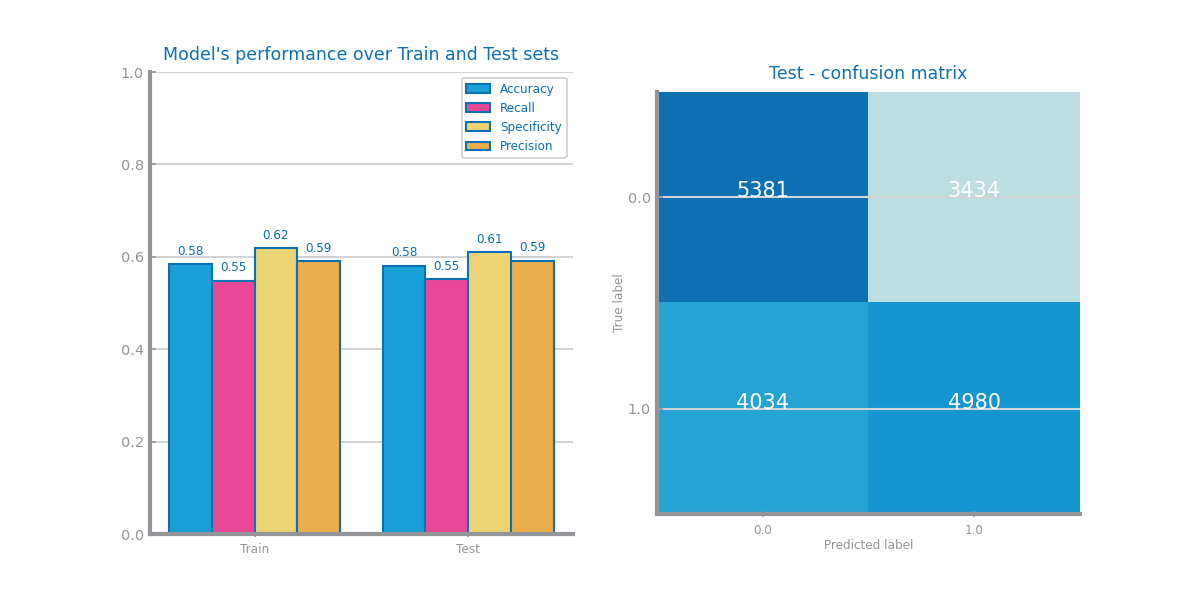
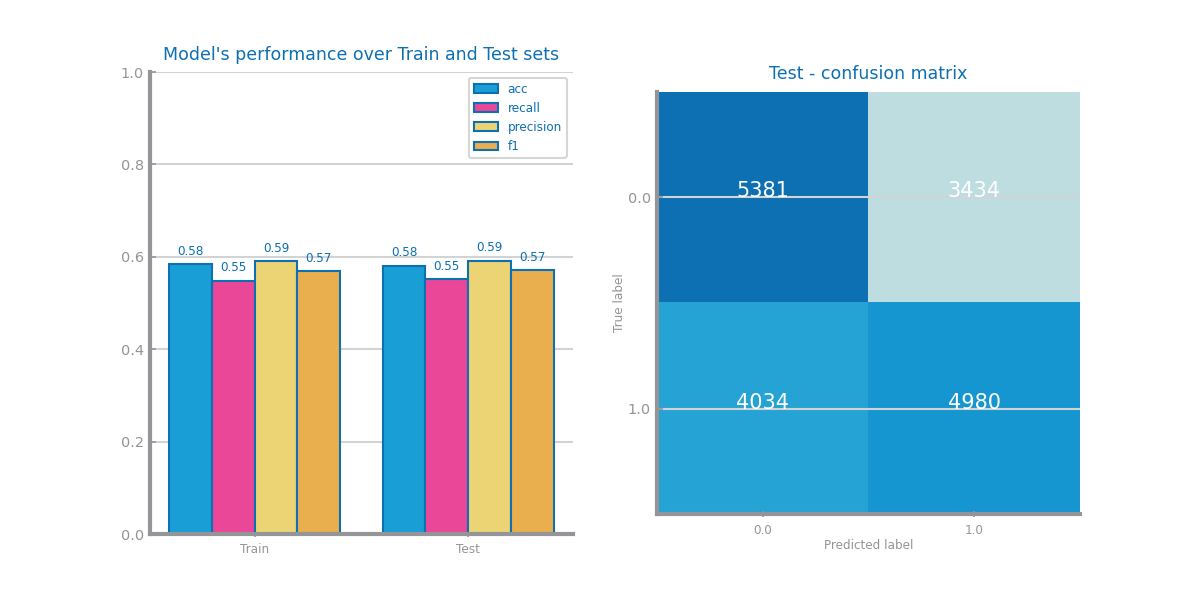
nb, knn and dtrees models done

Changed region(s): [[0.37, 0.12, 0.4625, 0.27], [0.2158, 0.39, 0.3083, 0.48], [0.37, 0.39, 0.4625, 0.45]]

diff --git a/code/week4_decision_trees.py b/code/week4_decision_trees.py
@@ -1,14 +1,15 @@
 from numpy import ndarray, argsort, arange
 from pandas import unique
-from sklearn.tree import DecisionTreeClassifier
+from sklearn.tree import DecisionTreeClassifier, plot_tree
 from matplotlib.pyplot import figure, subplots
 from sklearn.metrics import accuracy_score
-from ds_charts import horizontal_bar_chart, plot_evaluation_results, multiple_line_chart, plot_overfitting_study
+from ds_charts import horizontal_bar_chart, plot_evaluation_results, multiple_line_chart
 from globals import class_climate_prepared_test_df, class_climate_prepared_train_df, class_health_prepared_test_df, class_health_prepared_train_df
-from globals import CLASSIFICATION_CLIMATE_TARGET, CLASSIFICATION_HEALTH_TARGET
-from sklearn import tree
+from globals import CLASSIFICATION_CLIMATE_TARGET, CLASSIFICATION_HEALTH_TARGET, CLIMATE_IMAGE_FOLDER, HEALTH_IMAGE_FOLDER
+from globals import save_image, WEEK_4_FOLDER
+from week2_study import plot_evaluation_results
 
-def decision_trees_model(train, test, target_class):
+def decision_trees_model(train, test, target_class, image_folder, filename, filename2, filename3, filename4, filename5, filename6):
     trnY: ndarray = train.pop(target_class).values
     trnX: ndarray = train.values
     labels = unique(trnY)
@@ -44,16 +45,22 @@ def decision_trees_model(train, test, target_class):
             values[d] = yvalues
         multiple_line_chart(min_impurity_decrease, values, ax=axs[0, k], title=f'Decision Trees with {f} criteria',
                            xlabel='min_impurity_decrease', ylabel='accuracy', percentage=True)
-        #save_image here
-    
+        if(k == 0):
+            save_image(image_folder, WEEK_4_FOLDER, filename, show_flag=False)
+        else:
+            save_image(image_folder, WEEK_4_FOLDER, filename2, show_flag=False)
+
     labels = [str(value) for value in labels]
-    tree.plot_tree(best_model, feature_name=train.columns, class_names=labels)
-    #save_image here
+    plot_tree(best_model, feature_names= train.columns, class_names=labels)
+    save_image(image_folder, WEEK_4_FOLDER, filename3, show_flag=False)
 
     prd_trn = best_model.predict(trnX)
     prd_tst = best_model.predict(tstX)
-    plot_evaluation_results(labels, trnY, prd_trn, tstY, prd_tst)
-    #save_image here
+    if len(labels) > 2:
+        plot_evaluation_results(labels, trnY, prd_trn, tstY, prd_tst, average_param= 'micro')
+    else:
+        plot_evaluation_results(labels, trnY, prd_trn, tstY, prd_tst)
+    save_image(image_folder, WEEK_4_FOLDER, filename4, show_flag=False)
 
     variables = train.columns
     importances = best_model.feature_importances_
@@ -66,7 +73,7 @@ def decision_trees_model(train, test, target_class):
 
     figure()
     horizontal_bar_chart(elems, imp_values, error=None, title='Decision Tree Features importance', xlabel='importance', ylabel='variables')
-    #save_image here
+    save_image(image_folder, WEEK_4_FOLDER, filename5, show_flag=False)
 
     imp = 0.0001
     f = 'entropy'
@@ -82,9 +89,15 @@ def decision_trees_model(train, test, target_class):
         y_tst_values.append(eval_metric(tstY, prd_tst_Y))
         y_trn_values.append(eval_metric(trnY, prd_trn_Y))
     plot_overfitting_study(max_depths, y_trn_values, y_tst_values, name=f'DT=imp{imp}_{f}', xlabel='max_depth', ylabel=str(eval_metric))
-    #save_image here
+    save_image(image_folder, WEEK_4_FOLDER, filename6, show_flag=False)
     
+def plot_overfitting_study(xvalues, prd_trn, prd_tst, name, xlabel, ylabel):
+        evals = {'Train': prd_trn, 'Test': prd_tst}
+        figure()
+        multiple_line_chart(xvalues, evals, ax = None, title=f'Overfitting {name}', xlabel=xlabel, ylabel=ylabel, percentage=True)
 
-decision_trees_model(class_climate_prepared_train_df, class_climate_prepared_test_df, CLASSIFICATION_CLIMATE_TARGET)
+decision_trees_model(class_climate_prepared_train_df, class_climate_prepared_test_df, CLASSIFICATION_CLIMATE_TARGET, CLIMATE_IMAGE_FOLDER, 
+"dtrees_entropy_multiline", "dtrees_gini_multiline", "dtrees_tree", "dtrees_plot_eval", "dtrees_horizontal_bar", "dtrees_plot_overfit")
 
-decision_trees_model(class_health_prepared_train_df, class_health_prepared_test_df, CLASSIFICATION_HEALTH_TARGET)
+decision_trees_model(class_health_prepared_train_df, class_health_prepared_test_df, CLASSIFICATION_HEALTH_TARGET, HEALTH_IMAGE_FOLDER,
+"dtrees_entropy_multiline", "dtrees_gini_multiline", "dtrees_tree", "dtrees_plot_eval", "dtrees_horizontal_bar", "dtrees_plot_overfit")

diff --git a/code/week2_study.py b/code/week2_study.py
@@ -4,12 +4,16 @@ import itertools
 import matplotlib.pyplot as plt
 from pandas import unique
 from matplotlib.pyplot import figure
-from ds_charts import multiple_line_chart
+from ds_charts import HEIGHT, multiple_bar_chart, multiple_line_chart
 from sklearn.model_selection import train_test_split
 from sklearn.metrics import confusion_matrix, accuracy_score
 from sklearn.naive_bayes import GaussianNB, MultinomialNB
 from sklearn.neighbors import KNeighborsClassifier
+from sklearn.metrics import accuracy_score, recall_score, precision_score, f1_score, confusion_matrix
+from ds_charts import plot_confusion_matrix
+from matplotlib.pyplot import Axes, gca, figure, savefig, subplots, imshow, imread, axis
 from pandas.plotting import register_matplotlib_converters
+from numpy import ndarray
 
 register_matplotlib_converters()
 
@@ -62,27 +66,50 @@ def knn_study(df, target_class, image_folder, filename):
     multiple_line_chart(nvalues, values, title='KNN variants', xlabel='n', ylabel=str(accuracy_score), percentage=True)
     save_image(image_folder, WEEK_2_FOLDER, filename, show_flag=False)
 
-def plot_confusion_matrix(cnf_matrix: np.ndarray, classes_names: np.ndarray, ax: plt.Axes = None, normalize: bool = False):
-    CMAP = plt.cm.Blues
-    if ax is None:
-        ax = plt.gca()
-    if normalize:
-        total = cnf_matrix.sum(axis=1)[:, np.newaxis]
-        cm = cnf_matrix.astype('float') / total
-        title = "Normalized confusion matrix"
-    else:
-        cm = cnf_matrix
-        title = 'Confusion matrix'
-    np.set_printoptions(precision=2)
-    tick_marks = np.arange(0, len(classes_names), 1)
-    ax.set_title(title)
-    ax.set_ylabel('True label')
-    ax.set_xlabel('Predicted label')
-    ax.set_xticks(tick_marks)
-    ax.set_yticks(tick_marks)
-    ax.set_xticklabels(classes_names)
-    ax.set_yticklabels(classes_names)
-    ax.imshow(cm, interpolation='nearest', cmap=CMAP)
-    fmt = '.2f' if normalize else 'd'
-    for i, j in itertools.product(range(cm.shape[0]), range(cm.shape[1])):
-        ax.text(j, i, format(cm[i, j], fmt), color='y', horizontalalignment="center")
+#def plot_confusion_matrix(cnf_matrix: np.ndarray, classes_names: np.ndarray, ax: plt.Axes = None, normalize: bool = False):
+#    CMAP = plt.cm.Blues
+#    if ax is None:
+#        ax = plt.gca()
+#    if normalize:
+#        total = cnf_matrix.sum(axis=1)[:, np.newaxis]
+#        cm = cnf_matrix.astype('float') / total
+#        title = "Normalized confusion matrix"
+#    else:
+#        cm = cnf_matrix
+#        title = 'Confusion matrix'
+#    np.set_printoptions(precision=2)
+#    tick_marks = np.arange(0, len(classes_names), 1)
+#    ax.set_title(title)
+#    ax.set_ylabel('True label')
+#    ax.set_xlabel('Predicted label')
+#    ax.set_xticks(tick_marks)
+#    ax.set_yticks(tick_marks)
+#    ax.set_xticklabels(classes_names)
+#    ax.set_yticklabels(classes_names)
+#    ax.imshow(cm, interpolation='nearest', cmap=CMAP)
+#    fmt = '.2f' if normalize else 'd'
+#    for i, j in itertools.product(range(cm.shape[0]), range(cm.shape[1])):
+#        ax.text(j, i, format(cm[i, j], fmt), color='y', horizontalalignment="center")
+
+def plot_evaluation_results(labels: ndarray, trn_y, prd_trn, tst_y, prd_tst, pos_value: int = 1, average_param: str = 'binary'):
+
+    def compute_eval(real, prediction):
+        evaluation = {
+            'acc': accuracy_score(real, prediction),
+            'recall': recall_score(real, prediction, pos_label=pos_value, average=average_param),
+            'precision': precision_score(real, prediction, pos_label=pos_value, average=average_param),
+            'f1': f1_score(real, prediction, pos_label=pos_value, average=average_param)
+        }
+        return evaluation
+
+    eval_trn = compute_eval(trn_y, prd_trn)
+    eval_tst = compute_eval(tst_y, prd_tst)
+    evaluation = {}
+    for key in eval_trn.keys():
+        evaluation[key] = [eval_trn[key], eval_tst[key]]
+
+    _, axs = subplots(1, 2, figsize=(2 * HEIGHT, HEIGHT))
+    multiple_bar_chart(['Train', 'Test'], evaluation, ax=axs[0], title="Model's performance over Train and Test sets", percentage=True)
+
+    cnf_mtx_tst = confusion_matrix(tst_y, prd_tst, labels= labels)
+    plot_confusion_matrix(cnf_mtx_tst, labels, ax=axs[1], title='Test')

diff --git a/code/week4_nb_model.py b/code/week4_nb_model.py
@@ -1,10 +1,12 @@
 from numpy import ndarray
 from pandas import unique
 from sklearn.naive_bayes import GaussianNB, MultinomialNB
-from ds_charts import plot_evaluation_results
+from ds_charts import HEIGHT, multiple_bar_chart, plot_confusion_matrix
 from globals import class_climate_prepared_test_df, class_climate_prepared_train_df, class_health_prepared_test_df, class_health_prepared_train_df
 from globals import CLASSIFICATION_CLIMATE_TARGET, CLASSIFICATION_HEALTH_TARGET
 from globals import WEEK_4_FOLDER, save_image, CLIMATE_IMAGE_FOLDER, HEALTH_IMAGE_FOLDER
+from sklearn.metrics import accuracy_score, recall_score, precision_score, f1_score, confusion_matrix
+from matplotlib.pyplot import Axes, gca, figure, savefig, subplots, imshow, imread, axis
 
 def nb_model(train, test, target_class, image_folder, filename):
     trnY: ndarray = train.pop(target_class).values
@@ -24,10 +26,37 @@ def nb_model(train, test, target_class, image_folder, filename):
     clf.fit(trnX, trnY)
     prd_trn = clf.predict(trnX)
     prd_tst = clf.predict(tstX)
-    plot_evaluation_results(labels, trnY, prd_trn, tstY, prd_tst)
+    if len(labels) > 2:
+        plot_evaluation_results(labels, trnY, prd_trn, tstY, prd_tst, average_param= 'micro')
+    else:
+        plot_evaluation_results(labels, trnY, prd_trn, tstY, prd_tst)
+    
     save_image(image_folder, WEEK_4_FOLDER, filename, show_flag=False)
 
+def plot_evaluation_results(labels: ndarray, trn_y, prd_trn, tst_y, prd_tst, pos_value: int = 1, average_param: str = 'binary'):
 
-#nb_model(class_climate_prepared_train_df, class_climate_prepared_test_df, CLASSIFICATION_CLIMATE_TARGET, CLIMATE_IMAGE_FOLDER, "nb_model")
+    def compute_eval(real, prediction):
+        evaluation = {
+            'acc': accuracy_score(real, prediction),
+            'recall': recall_score(real, prediction, pos_label=pos_value, average=average_param),
+            'precision': precision_score(real, prediction, pos_label=pos_value, average=average_param),
+            'f1': f1_score(real, prediction, pos_label=pos_value, average=average_param)
+        }
+        return evaluation
+
+    eval_trn = compute_eval(trn_y, prd_trn)
+    eval_tst = compute_eval(tst_y, prd_tst)
+    evaluation = {}
+    for key in eval_trn.keys():
+        evaluation[key] = [eval_trn[key], eval_tst[key]]
+
+    _, axs = subplots(1, 2, figsize=(2 * HEIGHT, HEIGHT))
+    multiple_bar_chart(['Train', 'Test'], evaluation, ax=axs[0], title="Model's performance over Train and Test sets", percentage=True)
+
+    cnf_mtx_tst = confusion_matrix(tst_y, prd_tst, labels= labels)
+    plot_confusion_matrix(cnf_mtx_tst, labels, ax=axs[1], title='Test')
+
+
+nb_model(class_climate_prepared_train_df, class_climate_prepared_test_df, CLASSIFICATION_CLIMATE_TARGET, CLIMATE_IMAGE_FOLDER, "nb_model")
 
 nb_model(class_health_prepared_train_df, class_health_prepared_test_df, CLASSIFICATION_HEALTH_TARGET, HEALTH_IMAGE_FOLDER, "nb_model")

diff --git a/code/week4_knn_model.py b/code/week4_knn_model.py
@@ -2,12 +2,15 @@ from numpy import ndarray
 from pandas import unique
 from sklearn.neighbors import KNeighborsClassifier
 from sklearn.metrics import accuracy_score
-from ds_charts import multiple_line_chart, plot_evaluation_results
+from ds_charts import multiple_line_chart
 from matplotlib.pyplot import figure
 from globals import class_climate_prepared_test_df, class_climate_prepared_train_df, class_health_prepared_test_df, class_health_prepared_train_df
 from globals import CLASSIFICATION_CLIMATE_TARGET, CLASSIFICATION_HEALTH_TARGET
+from globals import WEEK_4_FOLDER, save_image, CLIMATE_IMAGE_FOLDER, HEALTH_IMAGE_FOLDER
+from week2_study import plot_evaluation_results
 
-def knn_model(train, test, target_class):
+
+def knn_model(train, test, target_class, image_folder, filename, filename2, filename3):
     trnY: ndarray = train.pop(target_class).values
     trnX: ndarray = train.values
     labels = unique(trnY)
@@ -35,14 +38,19 @@ def knn_model(train, test, target_class):
         values[d] = y_tst_values
     figure()
     multiple_line_chart(nvalues, values, title='KNN variants', xlabel='n', ylabel=str(accuracy_score), percentage=True)
-    #save_image here
+    save_image(image_folder, WEEK_4_FOLDER, filename, show_flag=False)
+
 
     clf = knn = KNeighborsClassifier(n_neighbors=best[0], metric=best[1])
     clf.fit(trnX, trnY)
     prd_trn = clf.predict(trnX)
     prd_tst = clf.predict(tstX)
-    plot_evaluation_results(labels, trnY, prd_trn, tstY, prd_tst)
-    #save_image here
+    if len(labels) > 2:
+        plot_evaluation_results(labels, trnY, prd_trn, tstY, prd_tst, average_param= 'micro')
+    else:
+        plot_evaluation_results(labels, trnY, prd_trn, tstY, prd_tst)
+    save_image(image_folder, WEEK_4_FOLDER, filename2, show_flag=False)
+
 
     def plot_overfitting_study(xvalues, prd_trn, prd_tst, name, xlabel, ylabel):
         evals = {'Train': prd_trn, 'Test': prd_tst}
@@ -61,8 +69,11 @@ def knn_model(train, test, target_class):
         y_tst_values.append(eval_metric(tstY, prd_tst_Y))
         y_trn_values.append(eval_metric(trnY, prd_trn_Y))
     plot_overfitting_study(nvalues, y_trn_values, y_tst_values, name=f'KNN_K={n}_{d}', xlabel='K', ylabel=str(eval_metric))
-    #save_image here
+    save_image(image_folder, WEEK_4_FOLDER, filename3, show_flag=False)
 
-knn_model(class_climate_prepared_train_df, class_climate_prepared_test_df, CLASSIFICATION_CLIMATE_TARGET)
 
-knn_model(class_health_prepared_train_df, class_health_prepared_test_df, CLASSIFICATION_HEALTH_TARGET)
+knn_model(class_climate_prepared_train_df, class_climate_prepared_test_df, CLASSIFICATION_CLIMATE_TARGET, CLIMATE_IMAGE_FOLDER, "knn_model_multiline",
+ "knn_model_plot_eval", "knn_model_plot_overfit")
+
+knn_model(class_health_prepared_train_df, class_health_prepared_test_df, CLASSIFICATION_HEALTH_TARGET, HEALTH_IMAGE_FOLDER, "knn_model_multiline", 
+ "knn_model_plot_eval", "knn_model_plot_overfit")
